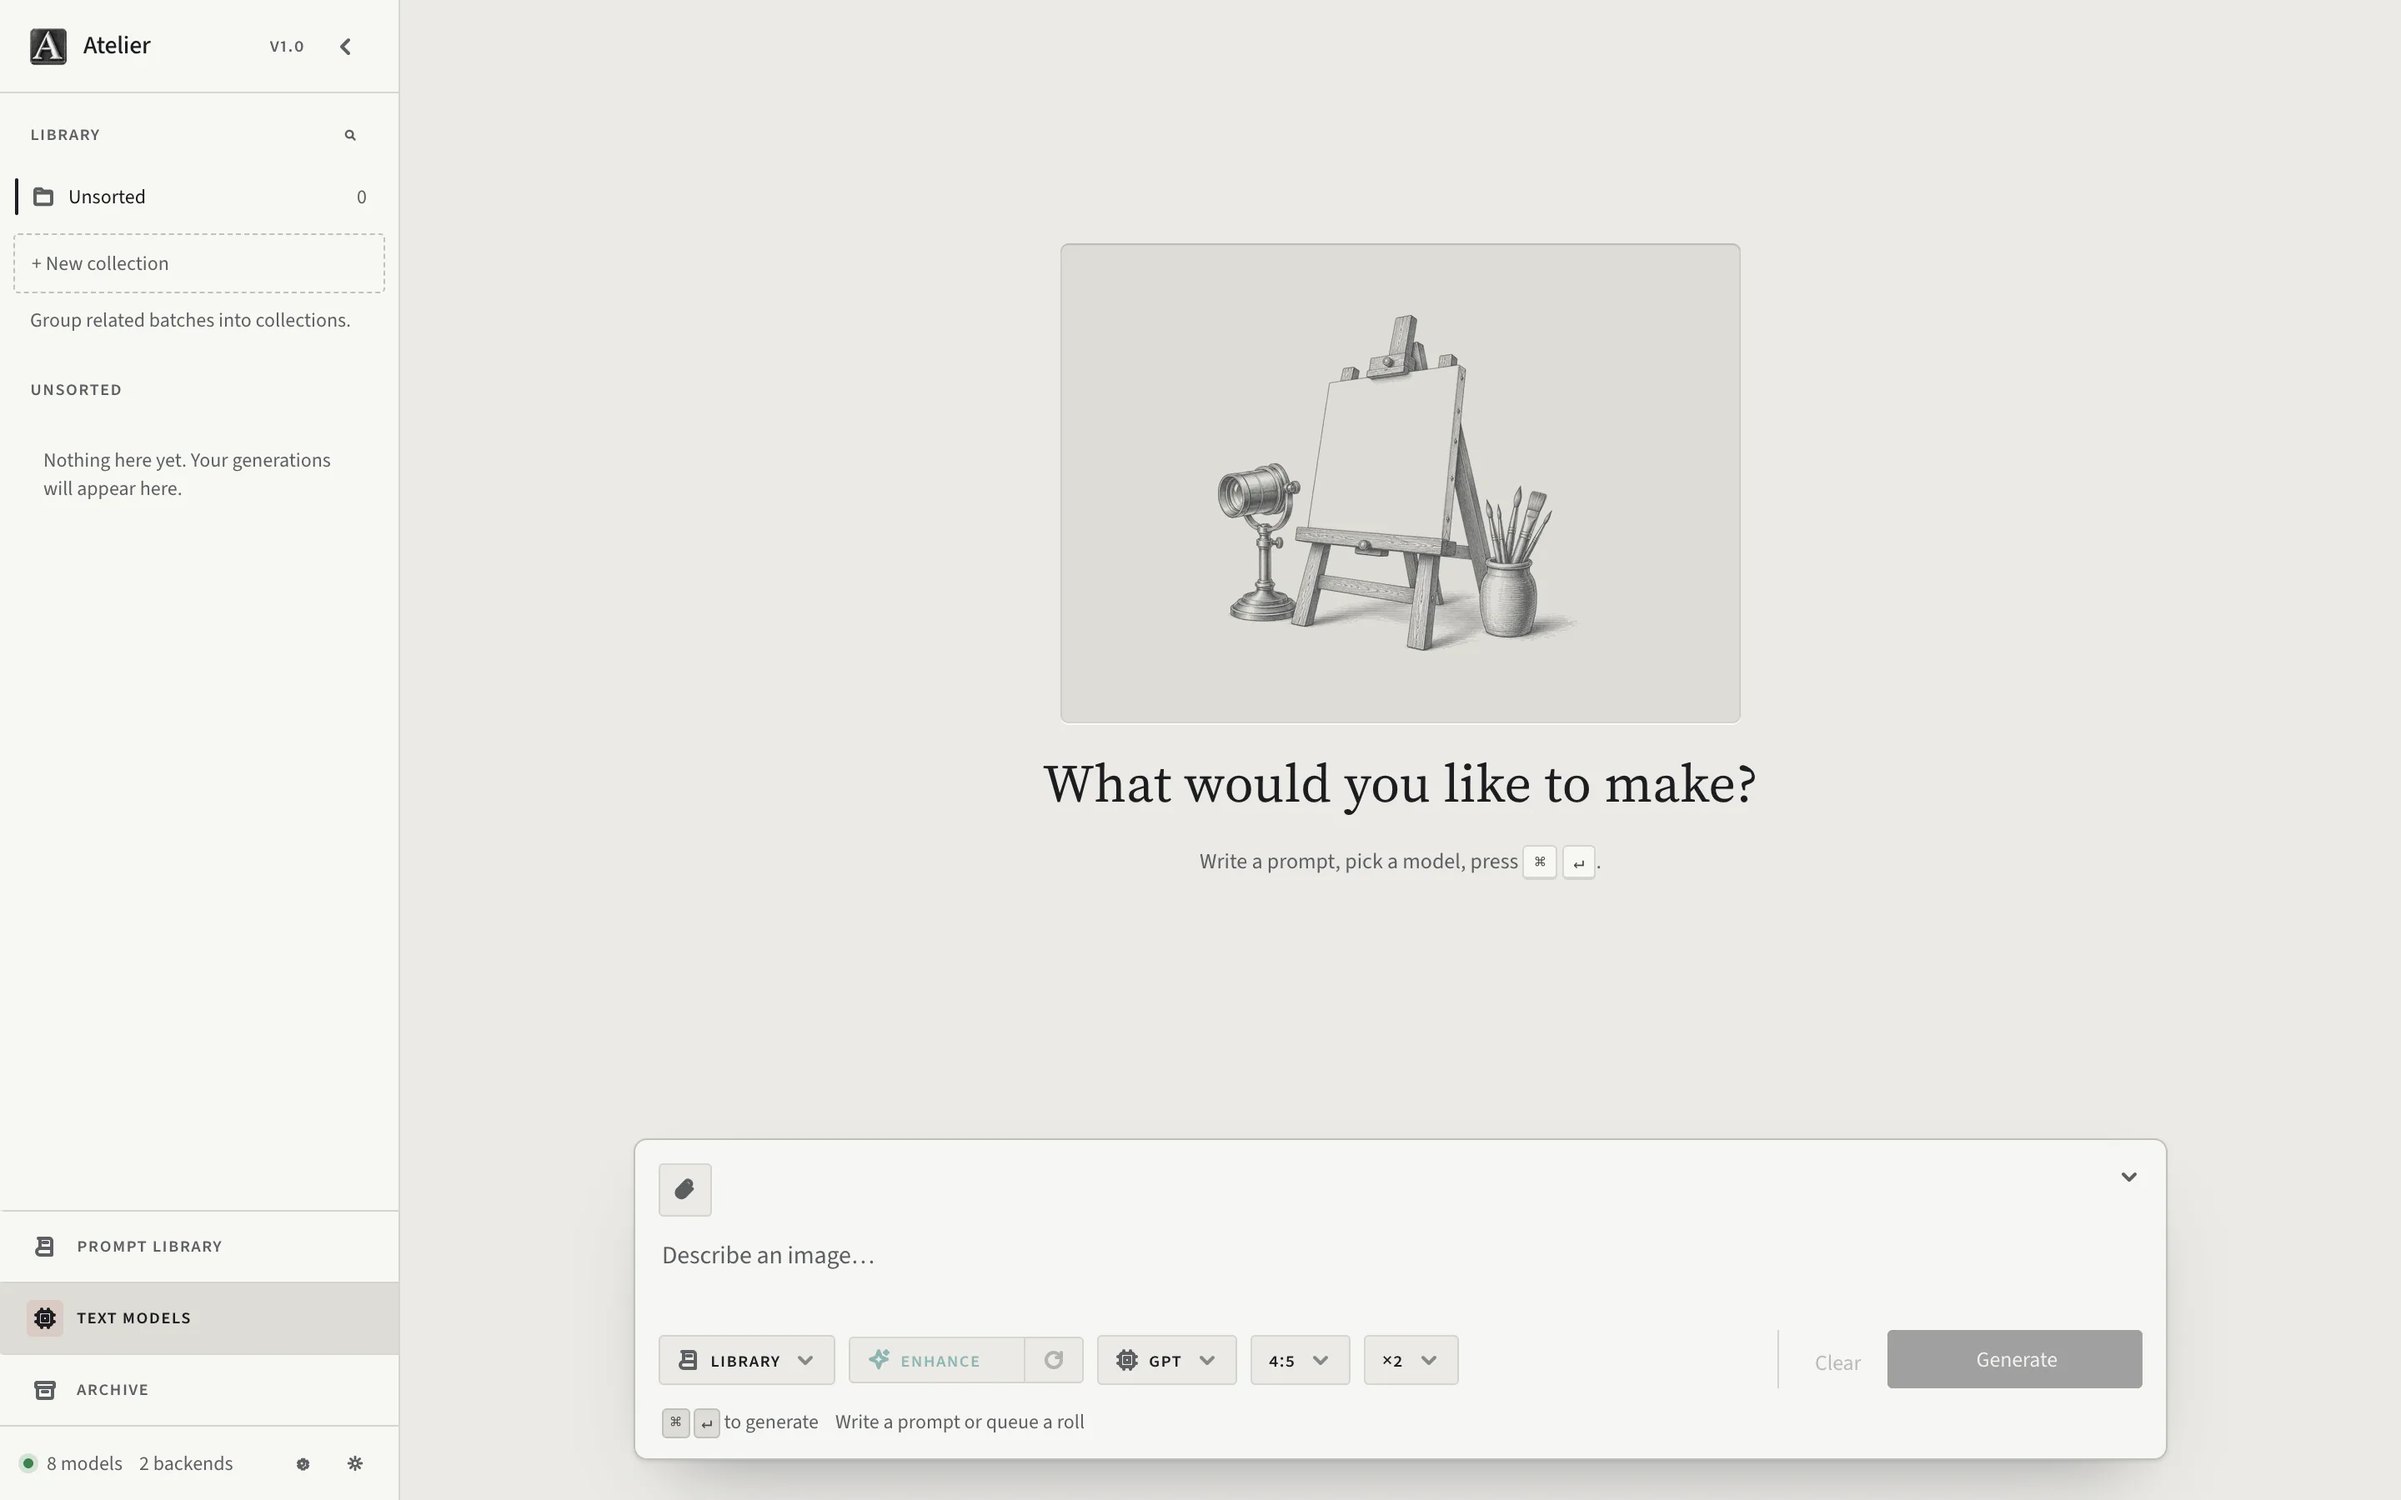
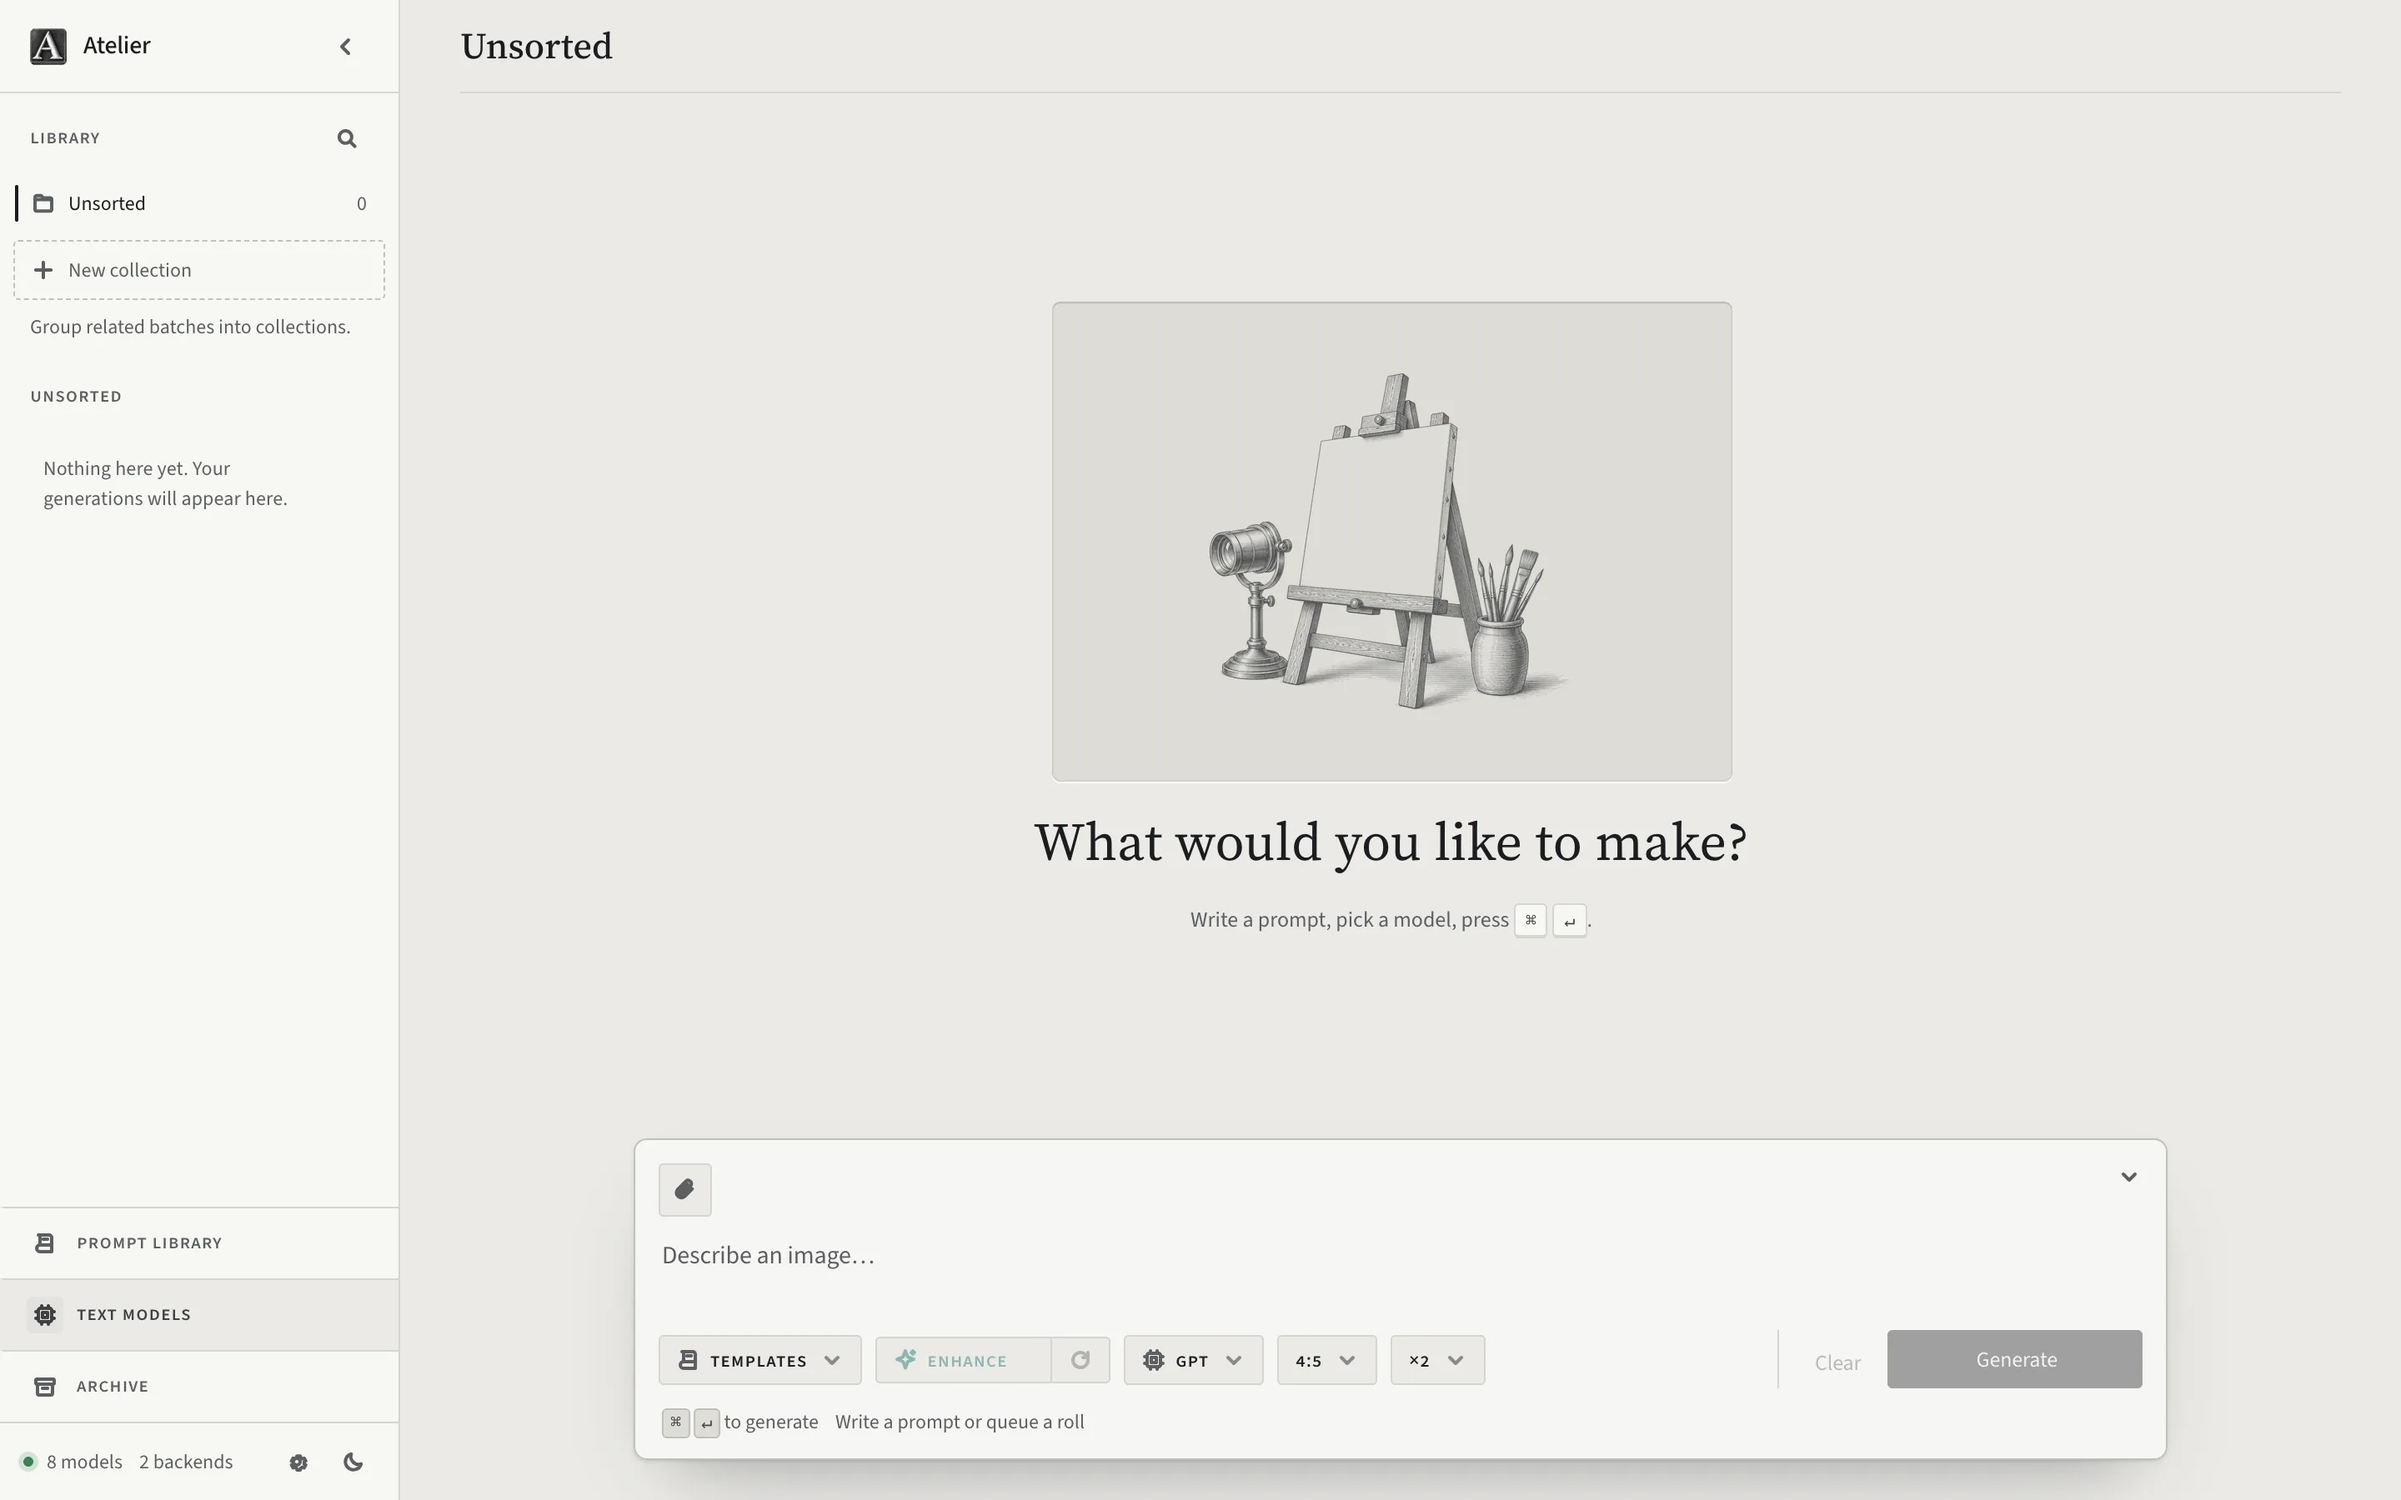
docs: retake the hero and admin screenshots for the polished UI
The hero shows the scope title, Templates chip and new rail; the admin
screenshots show Back to Unsorted and the new rail. Two stale wording lines
follow the UI (New collection, phone-only Back tip).

diff --git a/docs/web-conventions.md b/docs/web-conventions.md
@@ -26,7 +26,7 @@ Conventions and the breakpoint contract for the React web app. The locked UI sou
 - **Three planes, four overlay types.** Planes: Library = `Sidebar`; Canvas = `Canvas`/`Archive`/`PromptManager`/`Lightbox`; Composer = `Composer`/`PromptPicker`/`RefImageRow`/`EnhanceControl`. Composer state lives in the existing `ComposerDraft` slice. add fields, never fork. Overlays: popover / sheet (mobile popover) / dialog (`DialogShell`) / viewer (Lightbox). No fifth overlay grammar or new plane without a design pass.
 - **Prompt Library scroll-surface contract**. fixed `data-zone="head|entry|body|foot"` zones, single scrolling body, 14px mask fade (`--scroll-fade-mask`; the batch feeds declare the gradient on the scroller with the registered `--scroll-fade-top` stop, which a scroll-driven `atelier-scroll-edge` animation behind `@supports (animation-timeline: scroll())` opens to 0 at rest), fixed-height controls, drag-reorder via local drafts (never server mutations). Used by the three PromptManager editors, PromptPicker, and the Sidebar rail. Extend it for new Prompt Library UI; assert layout via `[data-zone]` containment (happy-dom can't verify scroll/flex). An empty resource tab renders its `StateView` alone across both columns, its create action the only one: the list pane (and its New button) stays out until a row exists or the inline name field opens; the Dimensions tab keeps Propose Dimensions in its header row meanwhile.
 - **Archive reuses the Library rail chrome byte-identically but context-gates rows** via the pure `buildLibraryRows(collections, summary, isArchive)` (`Sidebar/rows.ts`, single source of truth). In Archive: Unsorted always renders; Pinned gates on `archivedPinnedCount > 0`; a collection renders only if `archivedCount > 0`; no New collection row. Counts use `archived*Count`; Pinned uses the scope-correct count, never a cross-scope OR. Archive + Prompt Library hide the sidebar feed (`hideFeed`). URL grammar: `?view=archive[&archive=unsorted|pinned | &c=<id>]`. Don't reintroduce Main↔Archive row parity or a flat-archive lock, and don't restructure rail chrome between modes (it must not jump). Archiving a single tile or a batch shows "Archived" with Undo (5s) when it archived tiles, which restores exactly the tile IDs that operation archived through the existing restore path, once; Archive all keeps a plain toast.
-- **Every content column opens with `components/ManagedViewHeader`**: one visible serif `--text-xl` `<h2>` title that stands alone (no scope or count label beside it), an optional secondary back button, a right-action slot and one optional `titleAction` (the Prompt Library help button). On phones the action slot wraps to its own full-width row below the hamburger (taking back its clearance) while `titleAction` stays on the title row and the title wraps beside it. The image list (Canvas) titles itself with `scopeTitle(view, collections)` (`lib/viewChrome.ts`: Unsorted, Pinned or the bare collection name) on every form factor, so the title equals the active rail row; the Sidebar reads the same function, and "Feed" is not a UI word. `onBack` is optional; when given, `backLabel` is required and names where Back goes ("Back to <scope>"): Archive, Prompt Library and Text models go to Unsorted. The label is also the button's `data-tip`; below 768px Back is the arrow alone in a 44px square, the label visually hidden but still its accessible name, so the title keeps one line. The header owns the collapsed-sidebar and phone hamburger clearance; hosts reserve no band of their own. Selected-state = 2px `--ink` bar; `--accent` is reserved for the AI button (`btn.ai`, `<Verb> <Noun>` naming; the sparkle is `<I.sparkle aria-hidden>` inside the button. never a literal `✦` in the label string, which screen readers would read out). The composer's Enhance button speaks the same vocabulary as a flat accent-ink segment (`EnhanceControl`). Extend `ManagedViewHeader`, don't hand-roll a per-view header.
+- **Every content column opens with `components/ManagedViewHeader`**: one visible serif `--text-xl` `<h2>` title that stands alone (no scope or count label beside it), an optional secondary back button, a right-action slot and one optional `titleAction` (the Prompt Library help button). On phones the action slot wraps to its own full-width row below the hamburger (taking back its clearance) while `titleAction` stays on the title row and the title wraps beside it. The image list (Canvas) titles itself with `scopeTitle(view, collections)` (`lib/viewChrome.ts`: Unsorted, Pinned or the bare collection name) on every form factor, so the title equals the active rail row; the Sidebar reads the same function, and "Feed" is not a UI word. `onBack` is optional; when given, `backLabel` is required and names where Back goes ("Back to <scope>"): Archive, Prompt Library and Text models go to Unsorted. Below 768px Back is the arrow alone in a 44px square, with the label as its `data-tip`, the label visually hidden but still its accessible name, so the title keeps one line. The header owns the collapsed-sidebar and phone hamburger clearance; hosts reserve no band of their own. Selected-state = 2px `--ink` bar; `--accent` is reserved for the AI button (`btn.ai`, `<Verb> <Noun>` naming; the sparkle is `<I.sparkle aria-hidden>` inside the button. never a literal `✦` in the label string, which screen readers would read out). The composer's Enhance button speaks the same vocabulary as a flat accent-ink segment (`EnhanceControl`). Extend `ManagedViewHeader`, don't hand-roll a per-view header.
 - Managed views compose the header owner's shared `.inset` for their 36px desktop and 14px phone gutters. Overlay transitions compose `styles/surface.module.css`; preserve the exit hook and native popover/dialog lifecycle. Tune a surface only through `--surface-from`, `--surface-to` and `--surface-duration` on the element itself (the shared file keeps its defaults and its resting `opacity`/`transform` at zero specificity and the three non-inherited, because each composing module carries its own copy of it and a later copy must not reset an owner). User-action toast dismissals call the store's `dismissToast` (exit fade, one unmount, one `onDismiss`); `removeToast` is instant programmatic teardown. Composer uses intrinsic grid tracks with stable, inert hidden forms; media reveals wait for load/decode readiness. Height-auto reveals (Advanced, Referenced lists, option tags, Coverage and Diagnosis details, the Composer roll queue, the Add provider hints) go through `components/Disclosure` over `styles/disclosure.module.css`: a `0fr → 1fr` grid-track transition that stays mounted, inert and `aria-hidden` while closed, so it reverses mid-way; owners keep their toggle (`aria-expanded`, `aria-controls` → `id`) and move a parent's gap inside `contentClassName`. Never an instant `{open && …}` toggle or `interpolate-size` (Chromium only). Text that switches while its disclosure stays open (the Add provider URL hints) gets one disclosure per text, keyed by it: the old one closes while the next opens on the same track transition, so the height interpolates instead of snapping inside one open panel. Readouts and controls that appear after async data keep a reserved slot: the Lightbox size readout is a `min-width: 9ch` tabular slot (empty until decode, never "…") and its Zoom button is laid out for every image (`visibility: hidden`, `inert`, `aria-hidden` until zoom is worthwhile); the Lightbox reference strip and toolbar share one bottom column (`.dock`), so a wrapping toolbar pushes the strip up; the Composer's empty source slot and its thumb share one 64×64 footprint with the words in `.sourceMeta`; `InfiniteStatus` reserves its status line and the Retry row in every state; a re-test keeps the last connection result or model report in place, `aria-busy`, until the next one lands (`useHeldWhileRunning`).
 - **Virtualization** (Canvas / Archive / PromptPicker template list / Sidebar feed, `@tanstack/react-virtual`). `getItemKey` off stable IDs (never index), with one exception: Archive grid rows are positional chunks of tiles, keyed by index so a removal re-chunks without deleting the row element (a deleted row would swallow the tile exit); tile identity lives in each tile's named `<ViewTransition>` (`share="tile-move"`); height reads `getTotalSize()` only when virtual items exist (`lib/virtualWindow.ts` owns that rule and the pre-measure fallback rows); Archive re-measures on `gridCols`. Off-screen nav routes through `virtualizer.scrollToIndex`, never `querySelector`. **The two batch feeds (Canvas + Sidebar rail) take their virtualizer anchoring from `lib/feedAnchor.ts`**. The feed is bottom-anchored: it reads oldest → newest, so new work is an append at the end, next to the composer, and an older page is a prepend. `anchorTo: 'end'` holds the reader's row still when older history loads above (the scroller runs `overflow-anchor: none`, the Canvas row window is absolutely positioned, and `overflow-anchor` isn't Baseline anyway). A Canvas width change (sidebar collapse, window resize) re-reads every rendered row's `offsetHeight` inside the synchronous scroller-rect callback (TanStack's `measureElement` without a ResizeObserver entry returns the cached size), so positions and the end anchor land before that frame paints, not one row-ResizeObserver commit later; `followOnAppend` sticks to the newest batch only when the reader was already within `FEED_SCROLL_END_THRESHOLD_PX` of the end, so a reader who scrolled up is never pulled down. Stable `getItemKey` is a hard requirement for it. Entrance animations must NOT replay on view-swap or virtual remount. `lib/seenBatches.ts` is one module store (`useSeenBatches`, sessionStorage, FIFO-capped 500) shared by Canvas and the Sidebar rail: each feed marks the batch ids it renders from a `useEffect`, never during render (StrictMode), and each row captures its `seen` flag once at mount (`useState(seen)`) so a later mark never cuts a playing entrance short; a seen row carries `data-seen="true"`, which stops its entrance (Archive frames always carry it).
 - **`content-visibility: auto` is NOT pixel-faithful here**. it replays one-shot entrance animations on scroll-into-view. Tried and reverted; `seenBatches` is the replacement. Native top-layer tooltip labels now escape ancestor clipping; the animation constraint remains.

diff --git a/docs/user-guide.md b/docs/user-guide.md
@@ -71,7 +71,7 @@ files in `DATA_DIR`.
 ## Organise your work
 
 The **Library** sidebar contains your collections, **Unsorted** work and
-**Pinned** batches. Create a collection with **+ New collection**, then drag
+**Pinned** batches. Create a collection with **New collection**, then drag
 a batch into it. Pin a batch to make it easier to find, and use search to look
 for prompt text.
 
